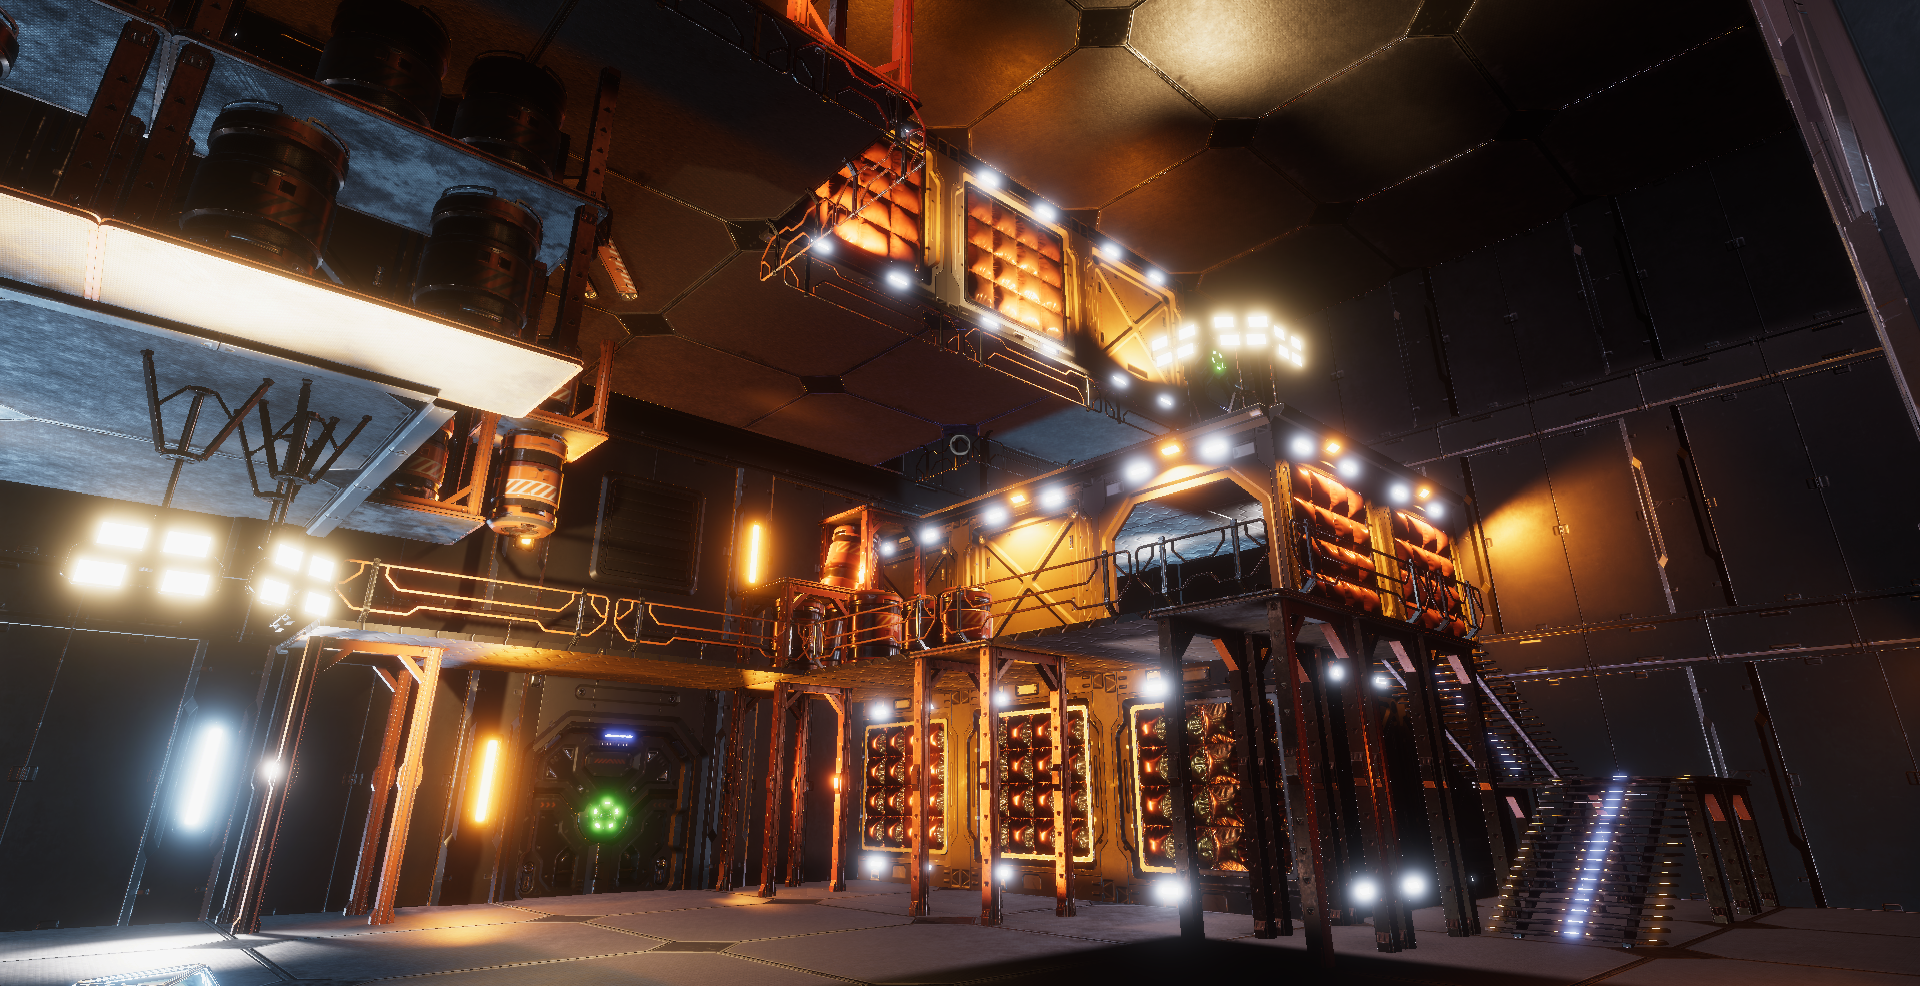
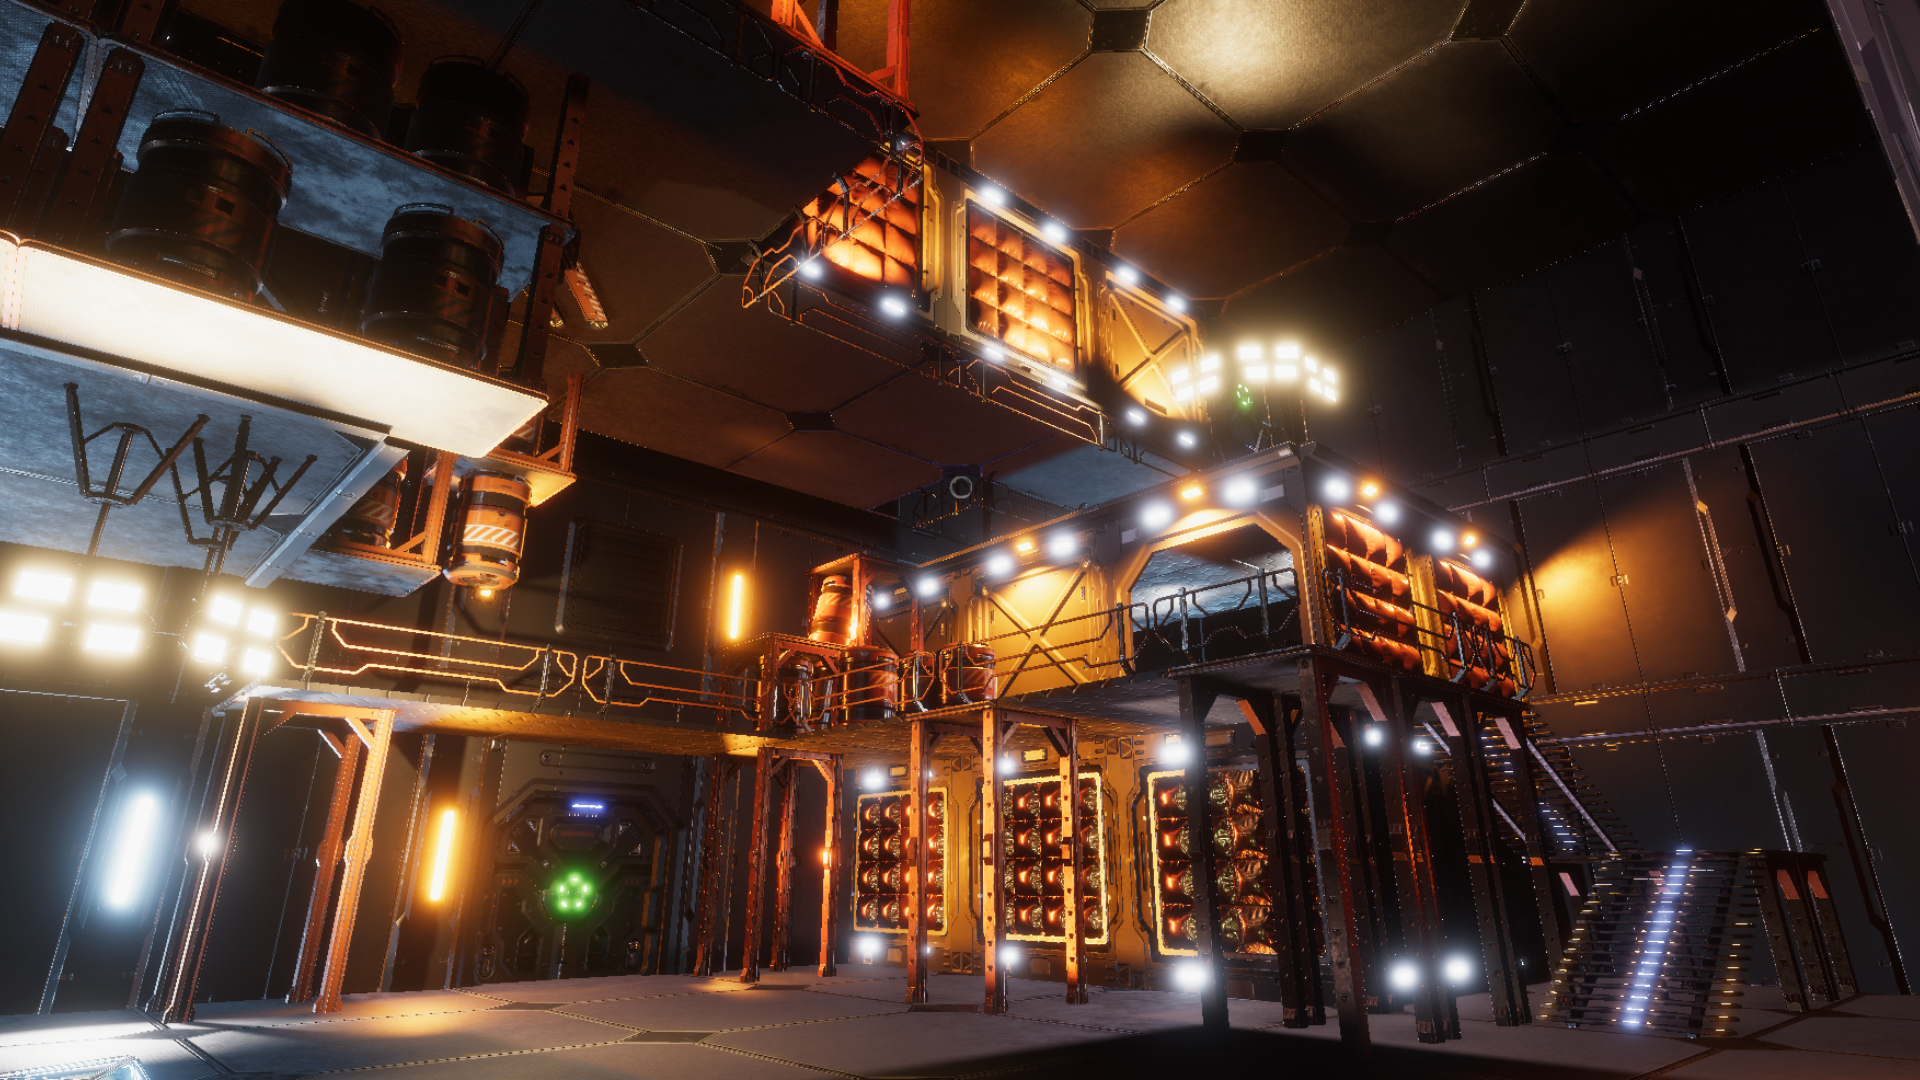
✅ [HomePage] Add image container

diff --git a/components/HomePage.vue b/components/HomePage.vue
@@ -1,16 +1,16 @@
 <template>
   <div class="home-content">
-    <NavBar/>
+    <NavBar />
     <svg id="middle-cross" viewBox="0 0 22 22">
       <polygon class="line" points="22 11.751 0 11.751 0 10.249 22 10.249 22 11"></polygon>
       <polygon class="line" points="11.751 0 11.751 22 10.249 22 10.249 0 11 0"></polygon>
     </svg>
     <div id="carousel" data-mouse-down-at="0" data-prev-percentage="0">
-      <img class="image" src="/images/other/test_image_16_9.jpg" draggable="false">
-      <img class="image" src="/images/other/test_image_16_9.jpg" draggable="false">
-      <img class="image" src="/images/other/test_image_16_9.jpg" draggable="false">
-      <img class="image" src="/images/other/test_image_16_9.jpg" draggable="false">
-      <img class="image" src="/images/other/test_image_16_9.jpg" draggable="false">
+      <div class="imageContainer"><img class="image" src="/images/Arffornia/launcher_homepage.png" draggable="false"></div>
+      <div class="imageContainer"><img class="image" src="/images/OCR/logo.png" draggable="false"></div>
+      <div class="imageContainer"><img class="image" src="/images/UpsideDown/UpsideDownBG.png" draggable="false"></div>
+      <div class="imageContainer"><img class="image" src="/images/TC/logo_back.png" draggable="false"></div>
+      <div class="imageContainer"><img class="image" src="/images/ACDC/logo_tp.png" draggable="false"></div>
     </div>
 
     <div id="page-number">
@@ -52,7 +52,7 @@ onMounted(() => {
   currentPercentage = minCarouselX;
   carousel.style.transform = `translate3d(${minCarouselX}%, 0, 0)`;
   Array.from(images).forEach((image, index) => {
-    // image.style.objectPosition = `${40 + currentPercentage + (index + 1) * 20}% center`;
+    image.style.objectPosition = `${40 + currentPercentage + (index + 1) * 20}% center`;
   });
 
   if (carousel) {
@@ -67,7 +67,7 @@ onMounted(() => {
       carousel.style.transform = `translate3d(${currentPercentage}%, 0, 0)`;
 
       Array.from(images).forEach((image, index) => {
-        // image.style.objectPosition = `${40 + currentPercentage + (index + 1) * 20}% center`;
+        image.style.objectPosition = `${40 + currentPercentage + (index + 1) * 20}% center`;
       });
 
       if (Math.abs(targetPercentage - currentPercentage) > 0.001) {
@@ -132,6 +132,9 @@ onMounted(() => {
         fullscreenImage.value.classList.remove('fullscreen');
         middleCross.classList.remove('fullscreen');
         fullscreenImage.value = null;
+
+        // Reset the imageContainer when fullscreen is closed
+        clickedImage.closest('.imageContainer').classList.remove('fullscreen');
       } else {
         clickedImage.classList.add('fullscreen');
         middleCross.classList.add('fullscreen');
@@ -141,24 +144,29 @@ onMounted(() => {
 
         updateImgIndex(index);
 
-        // const newPercentage = -(29.3 + 10.35 * (index));
-        const newPercentage =  -(-minCarouselX + (20.44 * index));
+        // const newPercentage = -(-minCarouselX + (20.44 * index));
+        const newPercentage = -(29.3 + 10.35 * (index));
+
+
 
         carousel.style.transform = `translate3d(${newPercentage}%, 0, 0)`;
 
         Array.from(images).forEach((image, index) => {
-          // image.style.objectPosition = `${40 + newPercentage + (index + 1) * 20}% center`;
+          image.style.objectPosition = `${40 + newPercentage + (index + 1) * 20}% center`;
         });
-        
-        
+
         targetPercentage = newPercentage;
         carousel.dataset.prevPercentage = newPercentage;
+
+        // Add fullscreen class to the image container as well
+        clickedImage.closest('.imageContainer').classList.add('fullscreen');
 
         if (!animationFrame) {
           animationFrame = requestAnimationFrame(animate);
         }
       }
     };
+
 
     function onPercentageChange() {
       if (-targetPercentage < 18.34) {
@@ -205,6 +213,7 @@ onMounted(() => {
   margin: 0;
   align-items: center;
   justify-content: center;
+  overflow: hidden;
 }
 
 #carousel {
@@ -215,22 +224,32 @@ onMounted(() => {
   align-items: center;
 }
 
-#carousel>.image {
+#carousel>.imageContainer {
   width: 33vmin;
   height: 46vmin;
-  object-fit: cover;
-  object-position: center;
-  transition: transform 0.5s ease, width 0.5s ease, height 0.5s ease;
+  transition: transform 0.7s ease, width 0.7s ease, height 0.7s ease;
   -webkit-user-select: none;
   -moz-user-select: none;
   -ms-user-select: none;
   user-select: none;
+  overflow: hidden;
 }
 
-#carousel>.image.fullscreen {
-  transform: scale(7);
-  object-fit: contain;
-  object-position: center;
+.image {
+  width: 100%;
+  height: 100%;
+  object-fit: cover;
+  transition: transform 0.7s ease;
+  transform: scale(2);
+}
+
+.image.fullscreen {
+  transform: scale(1);
+}
+
+#carousel>.imageContainer.fullscreen {
+  width: 100vw;
+  height: 100vh;
   z-index: 1000;
 }
 
@@ -269,7 +288,7 @@ onMounted(() => {
   font-weight: 450;
   font-size: 1.1em;
   line-height: 0.5em;
-  overflow: hidden
+  overflow: hidden;
 }
 
 #number {
